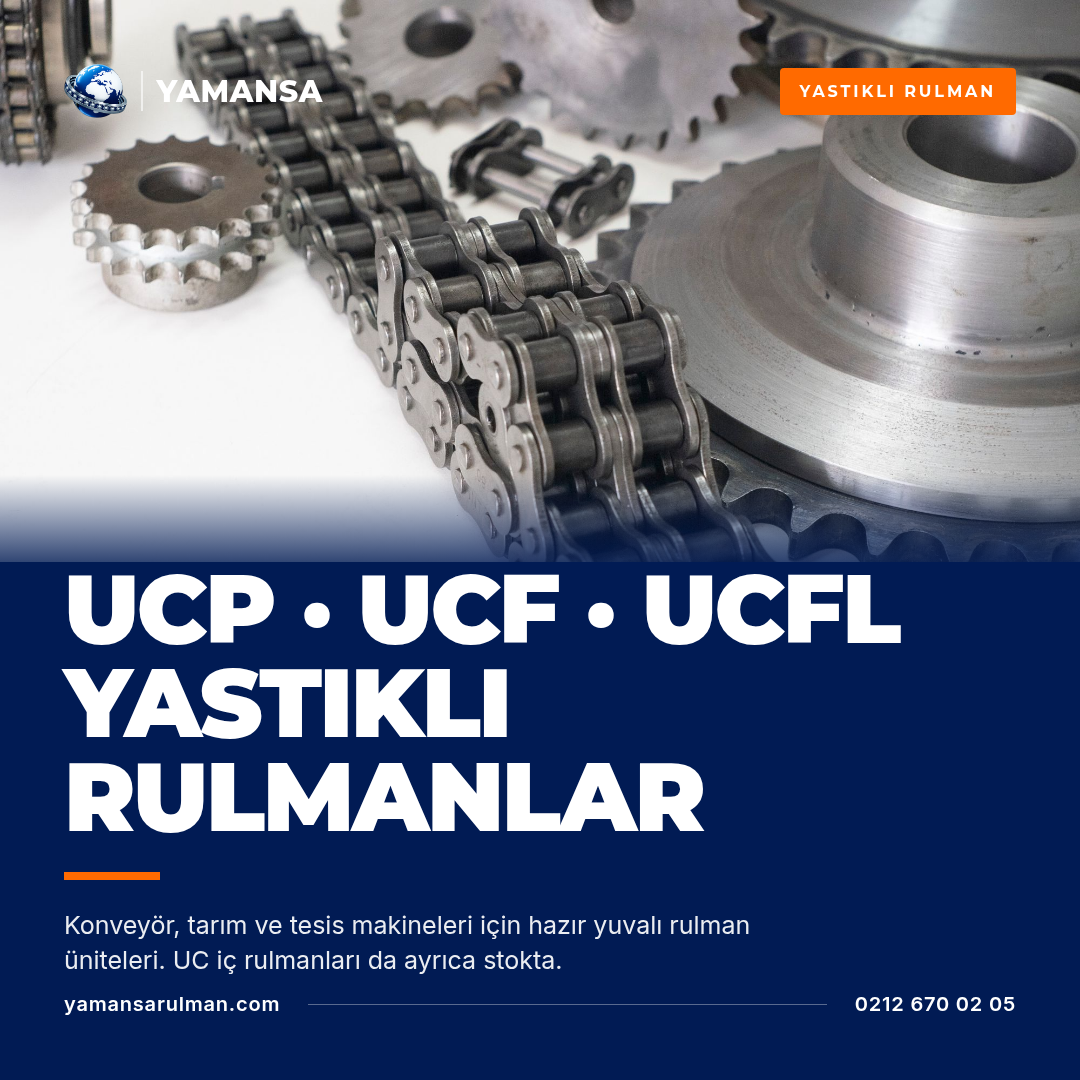
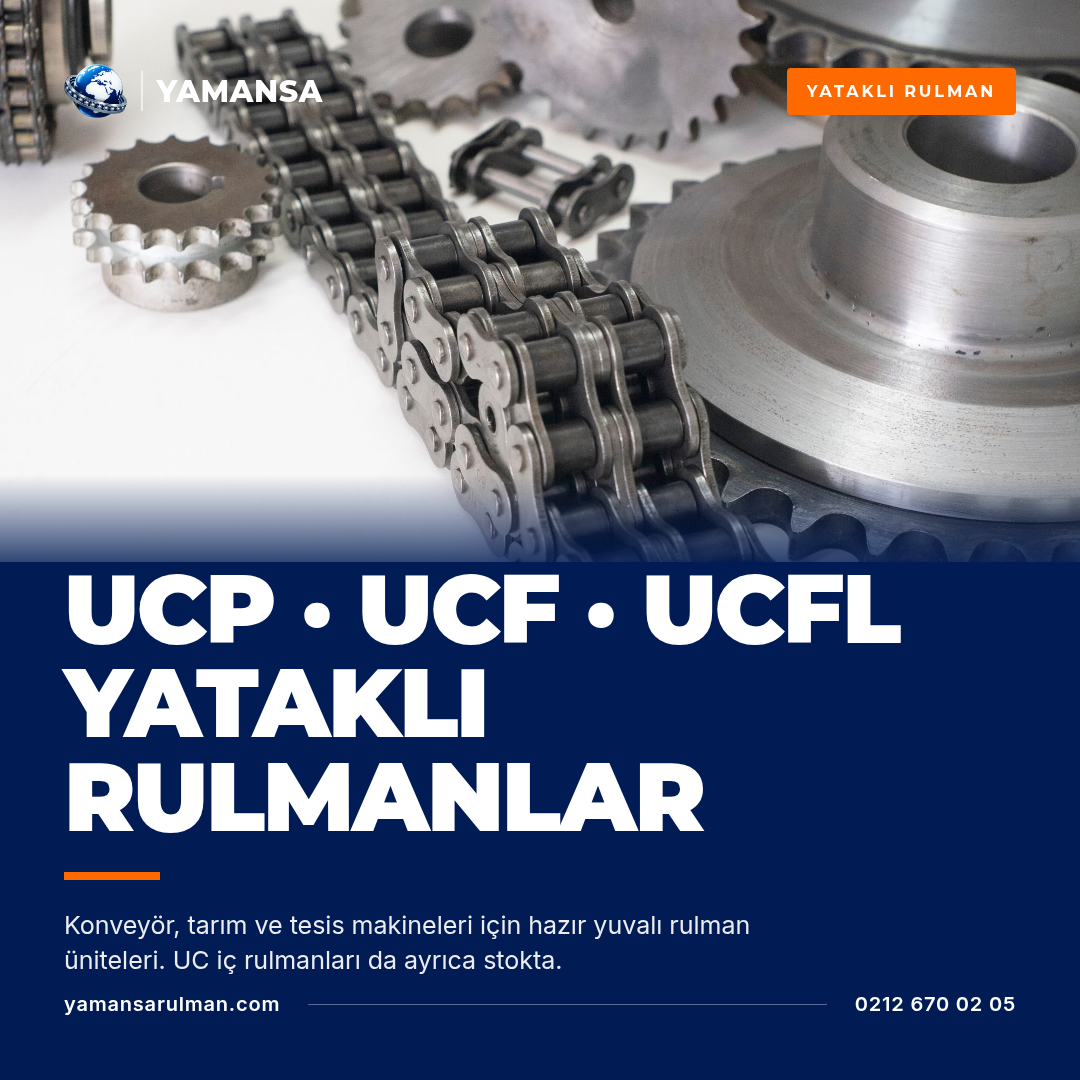
Gün 59: 'yastıklı' → 'yataklı rulman' terim düzeltmesi

Changed region(s): [[0.1833, 0.6111, 0.4889, 0.7028], [0.7028, 0.0611, 0.7944, 0.1222]]

diff --git a/sosyal_medya/icerik_verisi.py b/sosyal_medya/icerik_verisi.py
@@ -291,7 +291,7 @@ POSTS = [
         kw="konik makaralı rulman, silindirik makaralı rulman, oynak bilyalı rulman",
         link=f"{SITE}/?utm_source=linkedin&utm_medium=social&utm_campaign=sanayi",
         alt_text="Fabrikada büyük vidalı mil önünde mühendis; sanayi tipi konik, silindirik ve oynak rulmanlar",
-        ig="Sadece motosiklet değil. Sanayi tarafında da 1986'dan beri buradayız.\n\n• Konik makaralı (30200/30300/32000 serileri)\n• Silindirik makaralı (NU/NJ/N serileri)\n• Oynak bilyalı (1200/2200 serileri)\n• Geniş kesitli ve yastıklı (UCP/UCF) rulmanlar\n\nRedüktör, konveyör, pompa, tezgâh. Ölçü ve kodunuzu yazın.",
+        ig="Sadece motosiklet değil. Sanayi tarafında da 1986'dan beri buradayız.\n\n• Konik makaralı (30200/30300/32000 serileri)\n• Silindirik makaralı (NU/NJ/N serileri)\n• Oynak bilyalı (1200/2200 serileri)\n• Geniş kesitli ve yataklı (UCP/UCF) rulmanlar\n\nRedüktör, konveyör, pompa, tezgâh. Ölçü ve kodunuzu yazın.",
         li="Sanayi uygulamalarında rulman seçimi yük tipiyle başlar: radyal yük için silindirik makaralı (NU, NJ), birleşik yük için konik makaralı (30200/30300), eksen kaçıklığı olan uzun millerde oynak bilyalı (1200/2200) rulmanlar.\n\nYamansa, bu ailelerin tümünü SKF, FAG ve ORS markalarıyla stoklamaktadır. Bakım planlaması yapan ekipler için kritik yedek listesi oluşturma desteği veriyoruz.",
         hashtags="sanayi", blog="Konik, silindirik ve oynak rulman: hangi yükte hangisi?",
     ),
@@ -749,15 +749,15 @@ POSTS = [
     ),
     dict(
         gun=59, tarih="18 Kas 2026 Çar", platform="IG, FB, LI", pillar="Ürün",
-        sablon="split", foto="12093056.jpg", etiket="YASTIKLI RULMAN",
-        baslik="UCP · UCF · UCFL<br>YASTIKLI<br>RULMANLAR",
+        sablon="split", foto="12093056.jpg", etiket="YATAKLI RULMAN",
+        baslik="UCP · UCF · UCFL<br>YATAKLI<br>RULMANLAR",
         alt="Konveyör, tarım ve tesis makineleri için hazır yuvalı rulman üniteleri. UC iç rulmanları da ayrıca stokta.",
-        kw="ucp 205 rulman, yastıklı rulman, ucf 204, uc 206, yataklı rulman fiyat",
-        link=f"{SITE}/?utm_source=linkedin&utm_medium=social&utm_campaign=yastikli",
-        alt_text="Zincir ve dişli parçaları; UCP, UCF, UCFL yastıklı rulman üniteleri tanıtımı",
-        ig="Mil var, yuva yok mu? Yastıklı rulman.\n\nUCP → ayaklı yuva (zemine / şaseye)\nUCF → kare flanşlı (duvara / plakaya)\nUCFL → oval flanşlı (dar yer)\nUC 204–212 → iç rulman, ayrıca stokta\n\nKonveyör, tarım makinesi, tekstil, gıda hattı. Kod veya mil çapını yaz, gönderelim.",
-        li="Yastıklı rulman üniteleri (UCP, UCF, UCFL, UCT) konveyör, tarım ve tesis makinelerinde en pratik yataklama çözümüdür: yuva ve rulman tek parça gelir, setuskurla mile bağlanır, açısal kaçıklığı tolere eder.\n\nYamansa olarak UCP/UCF/UCFL ünitelerini ve UC 204–212 iç rulmanlarını stoklu tutuyoruz; paslanmaz ve termoplastik yuva seçenekleri için temin süresi veriyoruz.",
-        hashtags="sanayi", blog="UCP, UCF, UCFL yastıklı rulman tipleri ve UC 204–212 ölçü tablosu",
+        kw="ucp 205 rulman, yataklı rulman, ucf 204, uc 206, ucp yatak fiyat",
+        link=f"{SITE}/?utm_source=linkedin&utm_medium=social&utm_campaign=yatakli",
+        alt_text="Zincir ve dişli parçaları; UCP, UCF, UCFL yataklı rulman üniteleri tanıtımı",
+        ig="Mil var, yuva yok mu? Yataklı rulman.\n\nUCP → ayaklı yuva (zemine / şaseye)\nUCF → kare flanşlı (duvara / plakaya)\nUCFL → oval flanşlı (dar yer)\nUC 204–212 → iç rulman, ayrıca stokta\n\nKonveyör, tarım makinesi, tekstil, gıda hattı. Kod veya mil çapını yaz, gönderelim.",
+        li="Yataklı rulman üniteleri (UCP, UCF, UCFL, UCT) konveyör, tarım ve tesis makinelerinde en pratik yataklama çözümüdür: yuva ve rulman tek parça gelir, setuskurla mile bağlanır, açısal kaçıklığı tolere eder.\n\nYamansa olarak UCP/UCF/UCFL ünitelerini ve UC 204–212 iç rulmanlarını stoklu tutuyoruz; paslanmaz ve termoplastik yuva seçenekleri için temin süresi veriyoruz.",
+        hashtags="sanayi", blog="UCP, UCF, UCFL yataklı rulman tipleri ve UC 204–212 ölçü tablosu",
     ),
     dict(
         gun=60, tarih="19 Kas 2026 Per", platform="IG, FB, LI", pillar="CTA",

diff --git a/sosyal_medya/takvim_uret.py b/sosyal_medya/takvim_uret.py
@@ -49,7 +49,7 @@ def write_md():
                "| 5 | 31–37 | Kapak kodları (Z/ZZ/RS/2RZ), 6206–6211, çamaşır makinesi rulmanı, 608, arıza analizi, konik 30200 |\n"
                "| 6 | 38–44 | Kritik yedek listesi, 29 Ekim, bilyalı/makaralı, direksiyon & salıncak, NU/NJ/NUP, ek harfler |\n"
                "| 7 | 45–51 | Kurumsal tedarik, sökme, scooter filoları, rulman tarihi, oynak bilyalı 1200, 10 Kasım |\n"
-               "| 8 | 52–60 | Açık/kapaklı, sahte rulman, 6306–6311, elektrik motoru, yıl sonu duruşu, gres seçimi, yastıklı rulman, SSS CTA |\n")
+               "| 8 | 52–60 | Açık/kapaklı, sahte rulman, 6306–6311, elektrik motoru, yıl sonu duruşu, gres seçimi, yataklı rulman, SSS CTA |\n")
 
     out.append("## Özet tablo\n")
     out.append("| Gün | Tarih | Platform | Tema | Başlık | SEO anahtar kelimeler | Görsel |\n|---|---|---|---|---|---|---|")

diff --git a/sosyal_medya/02_icerik_takvimi.md b/sosyal_medya/02_icerik_takvimi.md
@@ -23,7 +23,7 @@
 | 5 | 31–37 | Kapak kodları (Z/ZZ/RS/2RZ), 6206–6211, çamaşır makinesi rulmanı, 608, arıza analizi, konik 30200 |
 | 6 | 38–44 | Kritik yedek listesi, 29 Ekim, bilyalı/makaralı, direksiyon & salıncak, NU/NJ/NUP, ek harfler |
 | 7 | 45–51 | Kurumsal tedarik, sökme, scooter filoları, rulman tarihi, oynak bilyalı 1200, 10 Kasım |
-| 8 | 52–60 | Açık/kapaklı, sahte rulman, 6306–6311, elektrik motoru, yıl sonu duruşu, gres seçimi, yastıklı rulman, SSS CTA |
+| 8 | 52–60 | Açık/kapaklı, sahte rulman, 6306–6311, elektrik motoru, yıl sonu duruşu, gres seçimi, yataklı rulman, SSS CTA |
 
 ## Özet tablo
 
@@ -87,7 +87,7 @@
 | 56 | 15 Kas 2026 Paz | IG, FB | Marka | “Bakım masraf değil, sigortadır.” | planlı bakım | gun56_kare.png |
 | 57 | 16 Kas 2026 Pzt | IG, FB, LI | Kurumsal | ARALIK DURUŞU İÇİN LİSTEYİ KASIM'DA KAPATIN. | yıllık bakım duruşu, bakım duruşu yedek parça, yıl sonu bakım planı rulman | gun57_kare.png, gun57_linkedin.png |
 | 58 | 17 Kas 2026 Sal | IG, FB | Teknik | GRES SEÇİMİ: 4 KURAL | rulman gresi seçimi, rulman gres miktarı, lityum gres rulman, rulman yağlama | gun58_kare.png |
-| 59 | 18 Kas 2026 Çar | IG, FB, LI | Ürün | UCP · UCF · UCFL YASTIKLI RULMANLAR | ucp 205 rulman, yastıklı rulman, ucf 204, uc 206, yataklı rulman fiyat | gun59_kare.png, gun59_linkedin.png |
+| 59 | 18 Kas 2026 Çar | IG, FB, LI | Ürün | UCP · UCF · UCFL YATAKLI RULMANLAR | ucp 205 rulman, yataklı rulman, ucf 204, uc 206, ucp yatak fiyat | gun59_kare.png, gun59_linkedin.png |
 | 60 | 19 Kas 2026 Per | IG, FB, LI | CTA | SORUNUZ VARSA, CEVABI BİZDE. | rulman danışmanlık, rulman fiyat sor, rulman teknik destek, rulman whatsapp | gun60_kare.png, gun60_linkedin.png |
 
 ## Gönderi detayları
@@ -688,7 +688,7 @@ Sadece motosiklet değil. Sanayi tarafında da 1986'dan beri buradayız.
 • Konik makaralı (30200/30300/32000 serileri)
 • Silindirik makaralı (NU/NJ/N serileri)
 • Oynak bilyalı (1200/2200 serileri)
-• Geniş kesitli ve yastıklı (UCP/UCF) rulmanlar
+• Geniş kesitli ve yataklı (UCP/UCF) rulmanlar
 
 Redüktör, konveyör, pompa, tezgâh. Ölçü ve kodunuzu yazın.
 
@@ -1732,16 +1732,16 @@ Uygulama sıcaklığı ve devrini yazın, gres tipini birlikte seçelim.
 ### Gün 59 · 18 Kas 2026 Çar · IG, FB, LI · Ürün
 
 **Görsel:** `gonderiler/gun59_kare.png` · `gonderiler/gun59_linkedin.png`  
-**Başlık:** UCP · UCF · UCFL YASTIKLI RULMANLAR  
-**SEO anahtar kelimeler:** ucp 205 rulman, yastıklı rulman, ucf 204, uc 206, yataklı rulman fiyat  
-**Link (UTM):** https://www.yamansarulman.com/?utm_source=linkedin&utm_medium=social&utm_campaign=yastikli  
-**Alt metin:** Zincir ve dişli parçaları; UCP, UCF, UCFL yastıklı rulman üniteleri tanıtımı  
-**Eşlik eden blog/site sayfası:** UCP, UCF, UCFL yastıklı rulman tipleri ve UC 204–212 ölçü tablosu
+**Başlık:** UCP · UCF · UCFL YATAKLI RULMANLAR  
+**SEO anahtar kelimeler:** ucp 205 rulman, yataklı rulman, ucf 204, uc 206, ucp yatak fiyat  
+**Link (UTM):** https://www.yamansarulman.com/?utm_source=linkedin&utm_medium=social&utm_campaign=yatakli  
+**Alt metin:** Zincir ve dişli parçaları; UCP, UCF, UCFL yataklı rulman üniteleri tanıtımı  
+**Eşlik eden blog/site sayfası:** UCP, UCF, UCFL yataklı rulman tipleri ve UC 204–212 ölçü tablosu
 
 **Instagram / Facebook metni:**
 
 ```
-Mil var, yuva yok mu? Yastıklı rulman.
+Mil var, yuva yok mu? Yataklı rulman.
 
 UCP → ayaklı yuva (zemine / şaseye)
 UCF → kare flanşlı (duvara / plakaya)
@@ -1756,11 +1756,11 @@ Konveyör, tarım makinesi, tekstil, gıda hattı. Kod veya mil çapını yaz, g
 **LinkedIn metni:**
 
 ```
-Yastıklı rulman üniteleri (UCP, UCF, UCFL, UCT) konveyör, tarım ve tesis makinelerinde en pratik yataklama çözümüdür: yuva ve rulman tek parça gelir, setuskurla mile bağlanır, açısal kaçıklığı tolere eder.
+Yataklı rulman üniteleri (UCP, UCF, UCFL, UCT) konveyör, tarım ve tesis makinelerinde en pratik yataklama çözümüdür: yuva ve rulman tek parça gelir, setuskurla mile bağlanır, açısal kaçıklığı tolere eder.
 
 Yamansa olarak UCP/UCF/UCFL ünitelerini ve UC 204–212 iç rulmanlarını stoklu tutuyoruz; paslanmaz ve termoplastik yuva seçenekleri için temin süresi veriyoruz.
 
-https://www.yamansarulman.com/?utm_source=linkedin&utm_medium=social&utm_campaign=yastikli
+https://www.yamansarulman.com/?utm_source=linkedin&utm_medium=social&utm_campaign=yatakli
 
 #endüstri #makineimalat #fabrika #bakım
 ```
